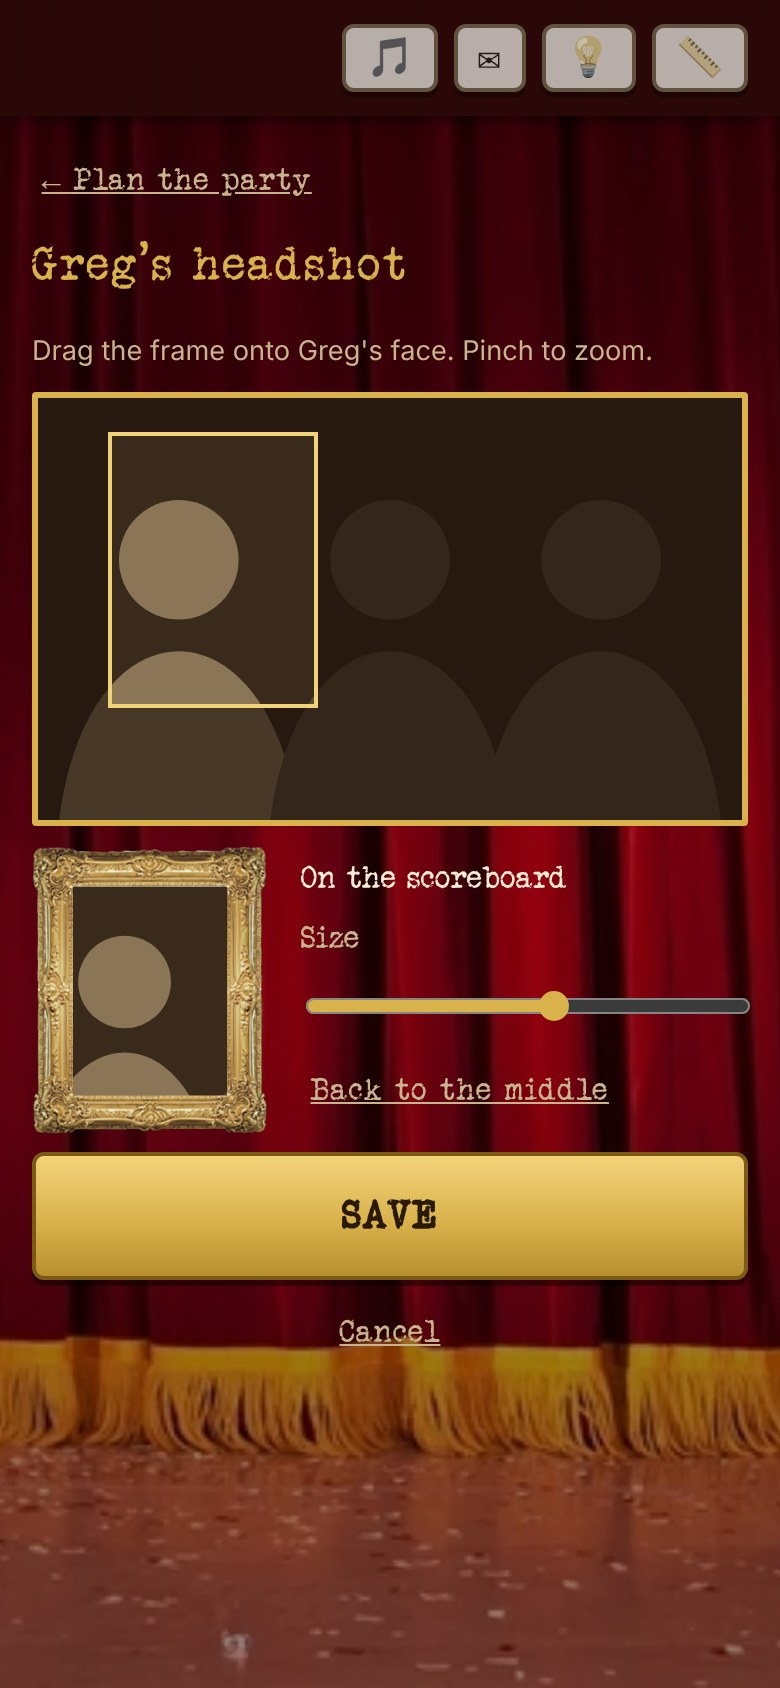
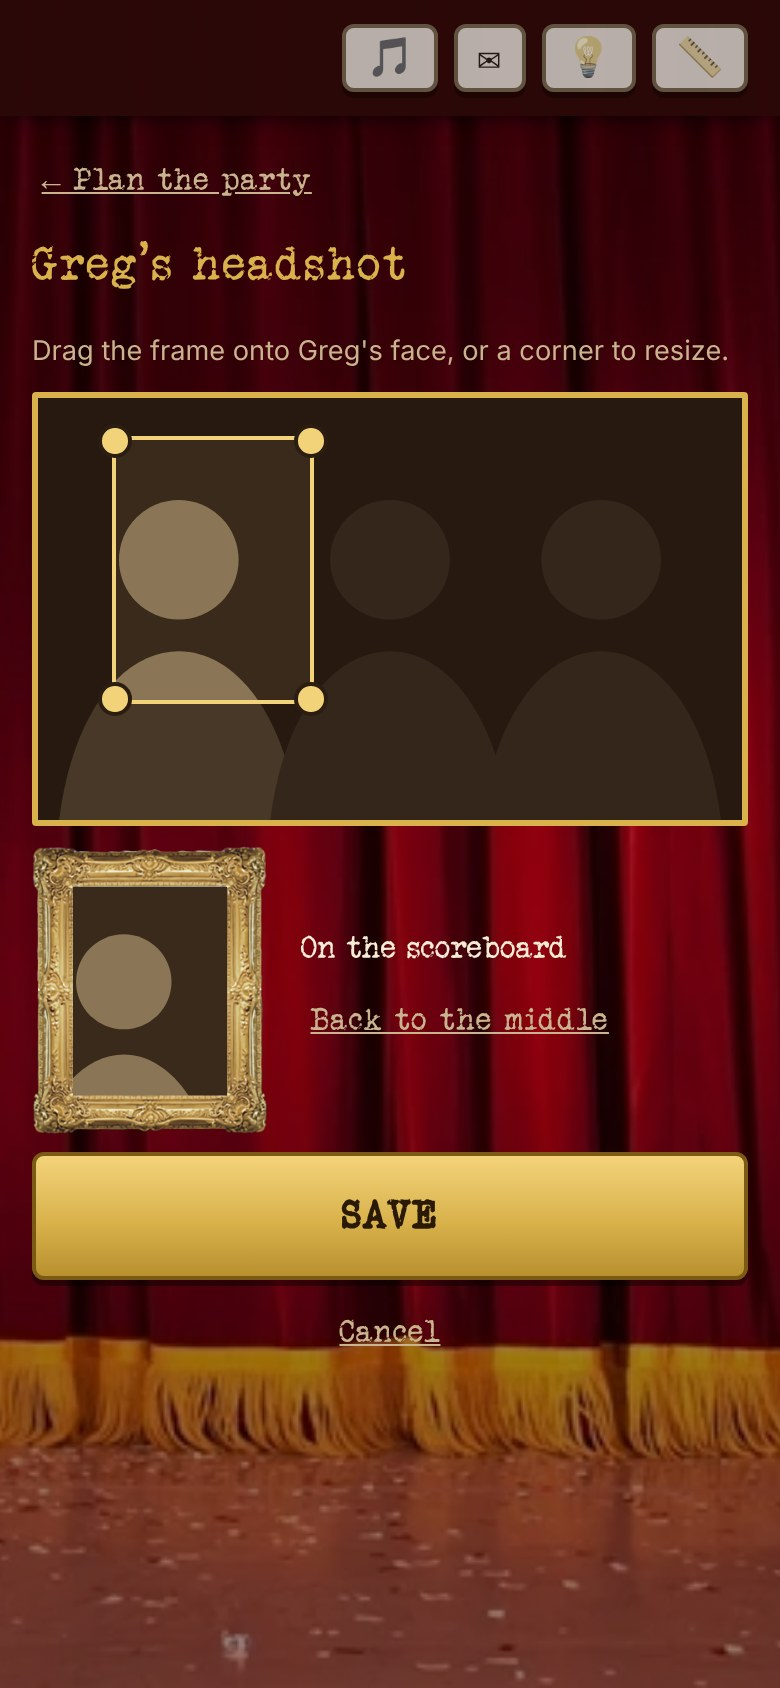
Sketch: resize the crop by its corners, not a slider
Claude-Session: https://claude.ai/code/session_01F5NqyUMhKV2vgpPgaqkygX

diff --git a/src/scoreboard/CropPage.tsx b/src/scoreboard/CropPage.tsx
@@ -1,12 +1,16 @@
 import { useRef, useState, type PointerEvent } from "react";
 import frame from "../assets/frame.png";
 import type { HeadshotCrop, Session } from "../types";
-import { centred, clamp, cropFill, heightOf } from "./crop";
+import { centred, clamp, cropFill, heightOf, WINDOW } from "./crop";
 import { setHeadshotCrop } from "./data";
 
+type Corner = "nw" | "ne" | "sw" | "se";
+const CORNERS: Corner[] = ["nw", "ne", "sw", "se"];
+const place = (c: HeadshotCrop, ratio: number) => ({ left: `${c.x * 100}%`, top: `${c.y * 100}%`, width: `${c.w * 100}%`, height: `${heightOf(c.w, ratio) * 100}%` });
+
 /**
- * A contestant's headshot, whole, with the scoreboard's window over it: drag the window onto their face, pinch (or
- * the Size slider) to make it smaller, and the frame beside it shows what the scoreboard will. Only the crop is
+ * A contestant's headshot, whole, with the scoreboard's window over it: drag the window onto their face, drag a
+ * corner (or pinch) to resize it, and the frame beside it shows what the scoreboard will. Only the crop is
  * saved; the photo stays as it was, and every other screen still shows all of it.
  */
 export function CropPage({ code, session, id, onBack }: { code: string; session: Session; id: string; onBack: () => void }) {
@@ -14,9 +18,9 @@ export function CropPage({ code, session, id, onBack }: { code: string; session:
   const [ratio, setRatio] = useState<number>();
   const [crop, setCrop] = useState<HeadshotCrop | undefined>(contestant?.crop);
   const box = useRef<HTMLDivElement>(null);
-  // Fingers down on the photo: one drags the window, two pinch it.
+  // Fingers down on the photo: one drags the window (or a corner of it), two pinch it.
   const pointers = useRef(new Map<number, { x: number; y: number }>());
-  const start = useRef<{ crop: HeadshotCrop; spread?: number; x: number; y: number }>();
+  const start = useRef<{ crop: HeadshotCrop; spread?: number; x: number; y: number; corner?: Corner }>();
 
   if (!contestant?.photo) {
     return (
@@ -38,7 +42,8 @@ export function CropPage({ code, session, id, onBack }: { code: string; session:
     if (!now) return;
     e.currentTarget.setPointerCapture(e.pointerId);
     pointers.current.set(e.pointerId, { x: e.clientX, y: e.clientY });
-    start.current = { crop: now, spread: spread(), x: e.clientX, y: e.clientY };
+    const corner = pointers.current.size === 1 ? (e.target as HTMLElement).dataset.corner as Corner | undefined : undefined;
+    start.current = { crop: now, spread: spread(), x: e.clientX, y: e.clientY, corner };
   };
   const move = (e: PointerEvent) => {
     if (!pointers.current.has(e.pointerId) || !start.current || !ratio || !box.current) return;
@@ -51,6 +56,16 @@ export function CropPage({ code, session, id, onBack }: { code: string; session:
       const w = Math.min(max, Math.max(max / 5, s.crop.w * (apart / s.spread)));
       const cx = s.crop.x + s.crop.w / 2, cy = s.crop.y + heightOf(s.crop.w, ratio) / 2;
       setCrop(clamp({ x: cx - w / 2, y: cy - heightOf(w, ratio) / 2, w }, ratio));
+    } else if (s.corner) {
+      // A corner: the opposite one stays put, and the window keeps its shape, following whichever way the finger went further.
+      const west = s.corner.includes("w"), north = s.corner.includes("n");
+      const h0 = heightOf(s.crop.w, ratio);
+      const ax = west ? s.crop.x + s.crop.w : s.crop.x, ay = north ? s.crop.y + h0 : s.crop.y;
+      const px = s.crop.x + (west ? 0 : s.crop.w) + (e.clientX - s.x) / width;
+      const py = s.crop.y + (north ? 0 : h0) + (e.clientY - s.y) / height;
+      const room = Math.min(west ? ax : 1 - ax, ((north ? ay : 1 - ay) * WINDOW) / ratio);
+      const w = Math.min(room, max, Math.max(max / 5, Math.abs(px - ax), (Math.abs(py - ay) * WINDOW) / ratio));
+      setCrop({ x: west ? ax - w : ax, y: north ? ay - heightOf(w, ratio) : ay, w });
     } else {
       setCrop(clamp({ ...s.crop, x: s.crop.x + (e.clientX - s.x) / width, y: s.crop.y + (e.clientY - s.y) / height }, ratio));
     }
@@ -60,23 +75,24 @@ export function CropPage({ code, session, id, onBack }: { code: string; session:
     const [rest] = [...pointers.current.values()];
     start.current = rest && now ? { crop: now, x: rest.x, y: rest.y } : undefined;
   };
-  const resize = (w: number) => {
-    if (!now || !ratio) return;
-    const cx = now.x + now.w / 2, cy = now.y + heightOf(now.w, ratio) / 2;
-    setCrop(clamp({ x: cx - w / 2, y: cy - heightOf(w, ratio) / 2, w }, ratio));
-  };
   const save = () => { if (now) void setHeadshotCrop(code, id, now); onBack(); };
 
   return (
     <div className="box-setup scoreboard-remote plan crop-page">
       <button className="link back" onClick={onBack}>← Plan the party</button>
       <h2>{name}'s headshot</h2>
-      <p className="muted small">Drag the frame onto {name}'s face. Pinch to zoom.</p>
+      <p className="muted small">Drag the frame onto {name}'s face, or a corner to resize.</p>
       <div className="crop-photo" ref={box} onPointerDown={begin} onPointerMove={move} onPointerUp={end} onPointerCancel={end}>
         <img src={photo} alt={`${name}'s whole headshot`} draggable={false}
           onLoad={(e) => setRatio(e.currentTarget.naturalWidth / e.currentTarget.naturalHeight)} />
         {now && ratio && (
-          <div className="crop-window" style={{ left: `${now.x * 100}%`, top: `${now.y * 100}%`, width: `${now.w * 100}%`, height: `${heightOf(now.w, ratio) * 100}%` }} />
+          <>
+            {/* the dimming is clipped to the photo; the window's corners can hang over its edge */}
+            <div className="crop-shade"><div style={place(now, ratio)} /></div>
+            <div className="crop-window" style={place(now, ratio)}>
+              {CORNERS.map((c) => <span key={c} className={`crop-corner ${c}`} data-corner={c} />)}
+            </div>
+          </>
         )}
       </div>
       <div className="crop-preview">
@@ -86,9 +102,6 @@ export function CropPage({ code, session, id, onBack }: { code: string; session:
         </div>
         <div className="crop-side">
           <span>On the scoreboard</span>
-          <label>Size
-            <input type="range" min={max / 5} max={max} step={max / 100} value={now?.w ?? max} onChange={(e) => resize(Number(e.target.value))} />
-          </label>
           <button className="link" disabled={!ratio} onClick={() => ratio && setCrop(centred(ratio))}>Back to the middle</button>
         </div>
       </div>

diff --git a/src/styles.css b/src/styles.css
@@ -529,7 +529,7 @@ body.idle-cursor .stage { cursor: none; }
 .steps.three { grid-template-columns: 1fr 1.3fr 1fr; }
 .now-playing { font-family: var(--typewriter); color: var(--gold-bright); font-size: 1.15rem; margin: 0; min-height: 1.5em; overflow-wrap: anywhere; }
 .volume { display: grid; gap: 0.3rem; }
-.volume input[type="range"], .crop-side input[type="range"] { padding: 0; height: 2rem; accent-color: var(--gold); background: none; border: 0; }
+.volume input[type="range"] { padding: 0; height: 2rem; accent-color: var(--gold); background: none; border: 0; }
 .tracklist { list-style: none; margin: 0; padding: 0; max-height: 45vh; overflow: auto; display: grid; gap: 0.4rem; }
 .tracklist button { width: 100%; text-align: left; padding: 0.6rem 0.8rem; }
 .tracklist button { display: flex; justify-content: space-between; align-items: baseline; gap: 0.8rem; }
@@ -1384,9 +1384,18 @@ button.name-tag:focus-visible { outline: 2px solid var(--gold-bright); }
 .phone.guest .env-pile { background: none; aspect-ratio: 1 / 1; overflow: visible; }
 .pile-rules { position: absolute; inset: 0 0 auto 0; z-index: 100; }
 /* Crop a headshot for the scoreboard: the whole photo with the window over it (the rest dimmed), and the frame beside it */
-.crop-photo { position: relative; justify-self: center; max-width: 100%; overflow: hidden; touch-action: none; user-select: none; -webkit-user-select: none; border: 3px solid var(--gold); border-radius: 2px; }
+.crop-photo { position: relative; justify-self: center; max-width: 100%; touch-action: none; user-select: none; -webkit-user-select: none; border: 3px solid var(--gold); border-radius: 2px; }
 .crop-photo img { display: block; max-width: 100%; max-height: 48vh; pointer-events: none; }
-.crop-window { position: absolute; box-sizing: border-box; border: 2px solid var(--gold-bright); box-shadow: 0 0 0 100vmax rgba(26, 15, 8, 0.6); cursor: move; }
+.crop-shade { position: absolute; inset: 0; overflow: hidden; pointer-events: none; }
+.crop-shade > div { position: absolute; box-shadow: 0 0 0 100vmax rgba(26, 15, 8, 0.6); }
+.crop-window { position: absolute; box-sizing: border-box; border: 2px solid var(--gold-bright); cursor: move; }
+/* a gold dot on each corner, inside a finger-sized patch that takes the drag */
+.crop-corner { position: absolute; width: 2.75rem; height: 2.75rem; margin: -1.375rem; display: grid; place-items: center; touch-action: none; }
+.crop-corner::after { content: ""; width: 0.8rem; height: 0.8rem; border-radius: 50%; background: var(--gold-bright); border: 2px solid var(--ink); pointer-events: none; }
+.crop-corner.nw { left: 0; top: 0; cursor: nwse-resize; }
+.crop-corner.ne { right: 0; top: 0; cursor: nesw-resize; }
+.crop-corner.sw { left: 0; bottom: 0; cursor: nesw-resize; }
+.crop-corner.se { right: 0; bottom: 0; cursor: nwse-resize; }
 .crop-preview { display: flex; gap: 1rem; align-items: center; }
 /* frame.png is 566 by 688; the photo sits 33px in from each side of it at 250px tall */
 .crop-frame { position: relative; flex: none; height: 9rem; aspect-ratio: 566 / 688; }

diff --git a/docs/screens/README.md b/docs/screens/README.md
@@ -109,7 +109,7 @@ Scoreboard (taken on 2026-10-12, from the real components with made-up sessions;
 | `scoreboard-host-points-db-lo.jpg` | A quietest-wins dB task: the LO chip under Mei's box while it's typed in, and Jo's LO in 1st (2026-10-17) |
 | `scoreboard-host-tasks-contestants.jpg` | Plan the party on a wide iPad: the party line across the top, tasks on the left and contestants on the right, the envelopes line across the bottom (2026-10-18) |
 | `headshot-crop-choice.jpg` | Plan the party, Contestants: headshots as tall thumbnails the shape of the scoreboard's window; Greg's (a wide group shot) tapped, opening "Greg's headshot" with Crop, Replace and Cancel in his row (sketch, 2026-10-19, from the ABCD party) |
-| `headshot-crop-page.jpg` | Crop opened on Greg's headshot: "← Plan the party", his whole group shot with the gold window dragged onto him and the rest dimmed, the scoreboard's gold frame beside it showing the crop, a Size slider, "Back to the middle", gold Save and quiet Cancel (sketch, 2026-10-19, from the ABCD party) |
+| `headshot-crop-page.jpg` | Crop opened on Greg's headshot: "← Plan the party", his whole group shot with the gold window (a dot on each corner to resize it) dragged onto him and the rest dimmed, the scoreboard's gold frame beside it showing the crop, "Back to the middle", gold Save and quiet Cancel (sketch, 2026-10-19, from the ABCD party) |
 | `scoreboard-host-update.jpg` | 🏆 with the scoreboard up: gold "Update the scores · N new tasks" |
 | `scoreboard-host-remote-scoreboard-up.jpg` | The remote's main view while the scoreboard is on the big screen |
 | `scoreboard-host-name-photo-task.jpg` | ✎ on a Photos task: "Photos: name it (optional)", no Scoring, the three "+" chips (2026-10-18) |
